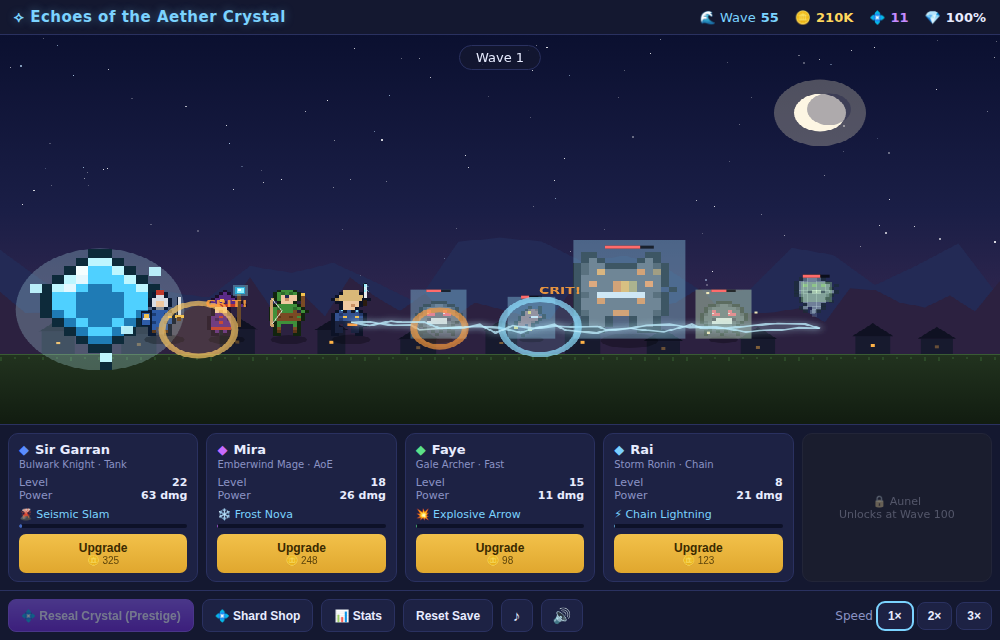
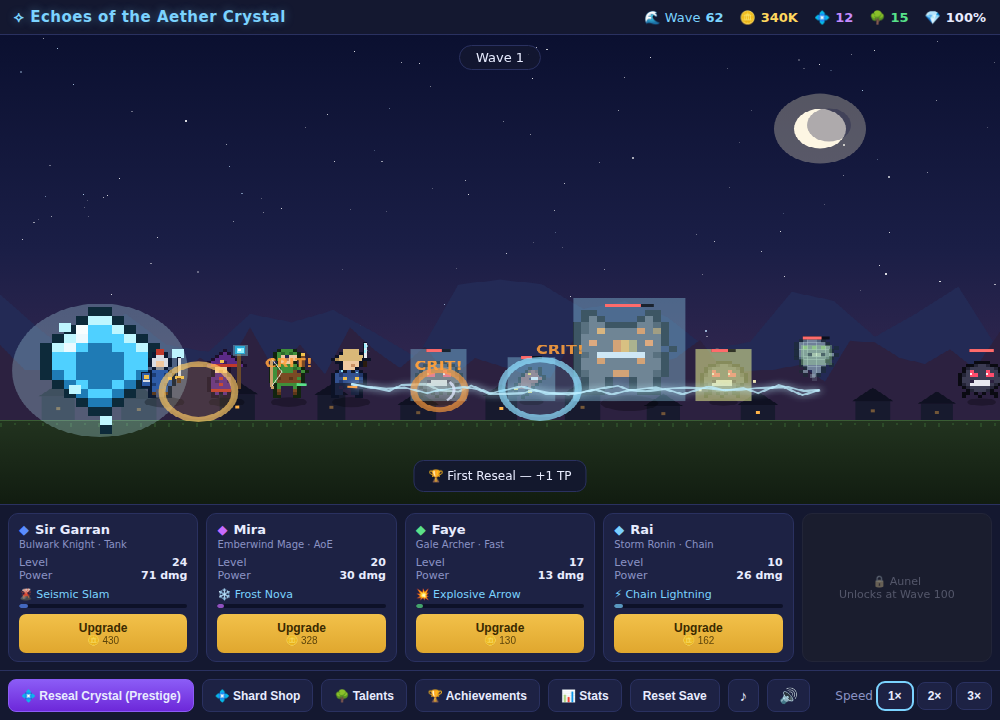
Add achievements (with rewards) and a talent tree
Achievements: 12 one-time milestones (wave/kills/gold/golden/heroes/prestige)
that each award Talent Points and spendable Aether Shards, tracked in save and
checked on wave clear, prestige, golden kills, hero recruit, and boot.

Talent Tree: 10 nodes across Offense / Defense / Economy / Skills branches,
bought with Talent Points (+2 per reseal, more from achievements):
- Might +dmg, Precision +crit dmg, Haste +atk speed
- Bulwark +crystal defense, Regeneration crystal regen
- Greed +gold, Fortune +golden-enemy chance
- Focus -skill cooldown, Empower +skill dmg, Grace +party-buff duration

Each talent is wired into combat (damage/crit/attack-speed/ward/regen/gold/
golden-chance/skill-cooldown/skill-dmg/buff-duration). New meta fields
(achievements, talents, talentPoints, prestiges, goldenKills) persist through
prestige and default cleanly for old saves. Adds Talents/Achievements panels,
a TP counter in the HUD, and matching tests (verify5); full suite passes.

Claude-Session: https://claude.ai/code/session_0137Kmgx8usseqRPpPc7daxH

diff --git a/game.js b/game.js
@@ -62,10 +62,61 @@ const SHARD_UPGRADES = [
     max:20, effect:l=>1, fmt:l=>`${(3+3*l)}% crit` },
 ];
 
-const CRIT_MULT = 2.5;                  // critical hit damage multiplier
+const CRIT_MULT = 2.5;                  // base critical hit damage multiplier
 function critChance(){ return Math.min(0.75, 0.03 + 0.03 * S.shardUpg.crit); }
+function critMultiplier(){ return CRIT_MULT + 0.1 * talent('precision'); }
 function critRoll(dmg){
-  return Math.random() < critChance() ? { dmg: dmg * CRIT_MULT, crit:true } : { dmg, crit:false };
+  return Math.random() < critChance() ? { dmg: dmg * critMultiplier(), crit:true } : { dmg, crit:false };
+}
+
+// --- Talent tree: spent with Talent Points (earned from prestige + achievements)
+const TALENTS = [
+  { id:'might',     branch:'⚔ Offense', name:'Might',        desc:'+5% all damage',          max:10, cost:2, fmt:l=>`+${5*l}% dmg` },
+  { id:'precision', branch:'⚔ Offense', name:'Precision',    desc:'+0.1× critical damage',   max:5,  cost:2, fmt:l=>`×${(CRIT_MULT+0.1*l).toFixed(1)} crit` },
+  { id:'haste',     branch:'⚔ Offense', name:'Haste',        desc:'+5% attack speed',        max:8,  cost:2, fmt:l=>`+${5*l}% spd` },
+  { id:'bulwark',   branch:'🛡 Defense', name:'Bulwark',      desc:'+10% crystal defense',    max:8,  cost:1, fmt:l=>`+${10*l}% def` },
+  { id:'regen',     branch:'🛡 Defense', name:'Regeneration', desc:'+0.5%/s crystal regen',   max:6,  cost:1, fmt:l=>`+${(0.5*l).toFixed(1)}%/s` },
+  { id:'greed',     branch:'💰 Economy', name:'Greed',        desc:'+8% gold from kills',     max:8,  cost:1, fmt:l=>`+${8*l}% gold` },
+  { id:'fortune',   branch:'💰 Economy', name:'Fortune',      desc:'+1% golden enemy chance', max:5,  cost:2, fmt:l=>`+${l}% golden` },
+  { id:'focus',     branch:'✨ Skills',  name:'Focus',        desc:'-4% skill cooldown',      max:8,  cost:2, fmt:l=>`-${4*l}% CD` },
+  { id:'empower',   branch:'✨ Skills',  name:'Empower',      desc:'+10% skill damage',       max:8,  cost:2, fmt:l=>`+${10*l}% skill` },
+  { id:'grace',     branch:'✨ Skills',  name:'Grace',        desc:'+1s party buff',          max:5,  cost:1, fmt:l=>`+${l}s buff` },
+];
+const talent = id => (S.talents[id] || 0);
+
+// talent-derived modifiers
+function effInterval(def){ return Math.max(0.05, def.atkInterval * (1 - 0.05 * talent('haste'))); }
+function effSkillCd(def){ return def.skill.cd * (1 - 0.04 * talent('focus')); }
+function wardMul(){ return shardMul('ward') * (1 + 0.10 * talent('bulwark')); }
+function goldMulAll(){ return shardMul('gold') * (1 + 0.08 * talent('greed')); }
+function goldenChance(){ return 0.03 + 0.01 * talent('fortune'); }
+
+// --- Achievements: one-time unlocks that pay Talent Points + spendable Shards
+const ACHIEVEMENTS = [
+  { id:'w25',  name:'Rising Tide',      desc:'Reach Wave 25',            tp:1, shards:1, check:()=>S.bestWave>=25 },
+  { id:'w50',  name:'Half a Hundred',   desc:'Reach Wave 50',            tp:1, shards:2, check:()=>S.bestWave>=50 },
+  { id:'w100', name:'Centurion',        desc:'Reach Wave 100',           tp:2, shards:3, check:()=>S.bestWave>=100 },
+  { id:'w200', name:'Unbroken',         desc:'Reach Wave 200',           tp:3, shards:5, check:()=>S.bestWave>=200 },
+  { id:'k1k',  name:'Monster Hunter',   desc:'Defeat 1,000 enemies',     tp:1, shards:1, check:()=>S.totalKills>=1000 },
+  { id:'k10k', name:'Legion Breaker',   desc:'Defeat 10,000 enemies',    tp:2, shards:3, check:()=>S.totalKills>=10000 },
+  { id:'g1m',  name:'Treasurer',        desc:'Earn 1M total gold',       tp:1, shards:1, check:()=>S.totalGoldEarned>=1e6 },
+  { id:'g1b',  name:'Tycoon',           desc:'Earn 1B total gold',       tp:2, shards:3, check:()=>S.totalGoldEarned>=1e9 },
+  { id:'gold', name:'Lucky Strike',     desc:'Slay a golden enemy',      tp:1, shards:1, check:()=>S.goldenKills>=1 },
+  { id:'team', name:'Fellowship',       desc:'Recruit all 5 heroes',     tp:2, shards:2, check:()=>HERO_DEFS.every(d=>S.heroLevels[d.id]>0) },
+  { id:'p1',   name:'First Reseal',     desc:'Prestige once',            tp:1, shards:0, check:()=>S.prestiges>=1 },
+  { id:'p10',  name:'Eternal Guardian', desc:'Prestige 10 times',        tp:3, shards:5, check:()=>S.prestiges>=10 },
+];
+function checkAchievements(){
+  for (const a of ACHIEVEMENTS){
+    if (!S.achievements[a.id] && a.check()){
+      S.achievements[a.id] = true;
+      S.talentPoints += a.tp;
+      S.shards += a.shards;
+      const reward = [a.tp?`+${a.tp} TP`:'', a.shards?`+${a.shards}💠`:''].filter(Boolean).join(', ');
+      toast('🏆 ' + a.name + (reward ? ' — ' + reward : ''));
+      GA('prestige');
+    }
+  }
 }
 
 // ------------------------------------------------------------------ formulas
@@ -114,6 +165,11 @@ function freshState(){
     recentGoldRate: [],     // gold/sec samples of recent waves (for offline calc)
     bestWave: 1,            // lifetime best wave reached
     totalKills: 0,          // lifetime enemies defeated
+    goldenKills: 0,         // golden enemies slain (lifetime)
+    prestiges: 0,           // number of reseals performed
+    achievements: {},       // id -> true when unlocked
+    talents: {},            // talent node id -> level
+    talentPoints: 0,        // spendable talent points
   };
 }
 
@@ -146,8 +202,8 @@ function globalDmgMul(){
   if (aunelLv > 0) m *= 1 + 0.03 * aunelLv;          // Aunel passive damage aura
   return m;
 }
-function combatMul(){ return globalDmgMul() * (partyBuffT > 0 ? PARTY_BUFF_MUL : 1); }
-function crystalMaxHp(){ return 100 * shardMul('ward'); }
+function combatMul(){ return globalDmgMul() * (partyBuffT > 0 ? PARTY_BUFF_MUL : 1) * (1 + 0.05 * talent('might')); }
+function crystalMaxHp(){ return 100 * wardMul(); }
 function gameSpeed(){ return S.speed * shardMul('speed'); }
 
 // ------------------------------------------------------------------ combat sim
@@ -194,7 +250,7 @@ function spawnEnemy(w){
   const type = pickType(w);
   const t = ENEMY_TYPES[type];
   const hp = enemyHP(w) * t.hp;
-  const golden = w >= 8 && Math.random() < 0.03;   // rare high-gold enemy
+  const golden = w >= 8 && Math.random() < goldenChance();   // rare high-gold enemy
   enemies.push({
     x: view.laneRight + Math.random()*40, y: view.ground,
     hp, maxHp: hp, type, speed: t.spd, frame:0, boss:false,
@@ -220,11 +276,15 @@ function grantGold(amount){
 function damageEnemy(e, dmg){
   e.hp -= dmg;
   if (e.hp <= 0){
-    const g = goldPerKill(S.wave) * e.goldMul * shardMul('gold');
+    const g = goldPerKill(S.wave) * e.goldMul * goldMulAll();
     grantGold(g);
     waveKills++;
     S.totalKills++;
-    if (e.golden){ addFloater(e.x, e.y - 34*(view.h/460), '💰 +' + fmt(g), '#ffe14d'); GA('prestige'); }
+    if (e.golden){
+      S.goldenKills++;
+      addFloater(e.x, e.y - 34*(view.h/460), '💰 +' + fmt(g), '#ffe14d'); GA('prestige');
+      checkAchievements();
+    }
     else addFloater(e.x, e.y - 30*(view.h/460), '+' + fmt(g), '#ffd75e');
     return true;
   }
@@ -241,7 +301,7 @@ function removeEnemy(e){ const i = enemies.indexOf(e); if (i >= 0) enemies.splic
 // ------------------------------------------------------------------ skills
 function castSkill(def, slot, lvl){
   const s = def.skill;
-  const roll = critRoll(skillBase(def, lvl) * combatMul() * s.mult);
+  const roll = critRoll(skillBase(def, lvl) * combatMul() * s.mult * (1 + 0.10 * talent('empower')));
   const dmg = roll.dmg;
   const hx = slot.x, hy = slot.y - 22;
   if (roll.crit && s.kind !== 'blessing') addFloater(hx, hy - 20, 'CRIT!', '#ffa03c');
@@ -282,7 +342,7 @@ function castSkill(def, slot, lvl){
   }
   else if (s.kind === 'blessing'){
     S.crystalHp = Math.min(1, S.crystalHp + 0.25);
-    partyBuffT = 5;
+    partyBuffT = 5 + talent('grace');
     const holy = skillBase(def, lvl) * combatMul() * 2.5;
     addFx({ kind:'nova', x: view.crystalX, y: slot.y - 18, r0:8, r:220, dur:0.7, color:s.fx });
     addFx({ kind:'heal', x: view.crystalX, y: view.ground - 40, dur:0.9, color:s.fx });
@@ -300,6 +360,8 @@ function simulate(dt){
   waveTime += dt;
   sfxGap -= dt;
   if (partyBuffT > 0) partyBuffT -= dt;
+  if (talent('regen') > 0 && S.crystalHp > 0)
+    S.crystalHp = Math.min(1, S.crystalHp + 0.005 * talent('regen') * dt);
 
   // spawn
   if (spawnedThisWave < totalToSpawn){
@@ -325,7 +387,7 @@ function simulate(dt){
       e.atkTimer += dt;
       if (e.atkTimer >= 1){
         e.atkTimer -= 1;
-        const dmgFrac = (e.boss ? 0.20 : 0.05) / shardMul('ward');
+        const dmgFrac = (e.boss ? 0.20 : 0.05) / wardMul();
         S.crystalHp = Math.max(0, S.crystalHp - dmgFrac);
         addFloater(view.crystalX, view.ground - 60*px, '-' + Math.round(dmgFrac*100) + '%', '#ff6b6b');
       }
@@ -338,7 +400,7 @@ function simulate(dt){
     const def = slot.def, lvl = S.heroLevels[def.id];
 
     // --- basic attack ---
-    const interval = def.atkInterval;
+    const interval = effInterval(def);
     heroTimers[def.id] = (heroTimers[def.id] || 0) + dt;
     while (heroTimers[def.id] >= interval){
       heroTimers[def.id] -= interval;
@@ -346,7 +408,7 @@ function simulate(dt){
     }
 
     // --- skill (auto-cast on cooldown) ---
-    const cd = def.skill.cd;
+    const cd = effSkillCd(def);
     skillTimers[def.id] = (skillTimers[def.id] || 0) + dt;
     if (skillTimers[def.id] >= cd){
       const wantsHeal = def.skill.kind === 'blessing' && S.crystalHp < 0.98;
@@ -379,6 +441,7 @@ function simulate(dt){
     S.wave++;
     if (S.wave > S.bestWave) S.bestWave = S.wave;
     checkUnlocks(S.wave);
+    checkAchievements();
     startWave(S.wave);
     showWaveBanner(S.wave);
     GA(isBossWave(S.wave) ? 'boss' : 'wave');
@@ -558,7 +621,7 @@ function draw(now){
   for (const slot of heroSlots()){
     if (!slot.active) continue;
     // skill-ready glow ring under the hero (also the tap-to-cast target)
-    if ((skillTimers[slot.def.id] || 0) >= slot.def.skill.cd){
+    if ((skillTimers[slot.def.id] || 0) >= effSkillCd(slot.def)){
       ctx.save();
       ctx.globalAlpha = 0.35 + 0.2*Math.sin(now/180);
       ctx.strokeStyle = slot.def.color; ctx.lineWidth = 2;
@@ -625,6 +688,7 @@ function updateHud(){
   el('s-wave').textContent = S.wave;
   el('s-gold').textContent = fmt(S.gold);
   el('s-shard').textContent = fmt(S.shards);
+  if (el('s-tp')) el('s-tp').textContent = fmt(S.talentPoints);
   el('s-crystal').textContent = Math.round(S.crystalHp*100) + '%';
   el('btnPrestige').disabled = prestigeShards(S.totalGoldEarned) <= S.shardsEarned;
   for (const def of HERO_DEFS){
@@ -638,7 +702,7 @@ function updateHud(){
     // skill cooldown bar
     const bar = el('cd-'+def.id);
     if (bar && S.heroLevels[def.id] > 0){
-      const frac = Math.min(1, (skillTimers[def.id] || 0) / def.skill.cd);
+      const frac = Math.min(1, (skillTimers[def.id] || 0) / effSkillCd(def));
       bar.style.width = (frac*100) + '%';
       bar.style.opacity = frac >= 1 ? '1' : '0.7';
     }
@@ -692,6 +756,7 @@ function buyHero(def){
   }
   const btn = el('buy-'+def.id);
   btn.innerHTML = `Upgrade <small>🪙 ${fmt(heroCost(def, S.heroLevels[def.id]))}</small>`;
+  checkAchievements();
   updateHud();
 }
 
@@ -731,18 +796,19 @@ function doPrestige(){
     const keep = {
       shards: S.shards + gain, shardsEarned: S.shardsEarned + gain,
       shardUpg: S.shardUpg, totalGoldEarned: S.totalGoldEarned,
-      bestWave: S.bestWave, totalKills: S.totalKills,
+      bestWave: S.bestWave, totalKills: S.totalKills, goldenKills: S.goldenKills,
+      prestiges: S.prestiges + 1, achievements: S.achievements,
+      talents: S.talents, talentPoints: S.talentPoints + 2,   // +2 TP per reseal
     };
     S = freshState();
-    S.shards = keep.shards; S.shardsEarned = keep.shardsEarned;
-    S.shardUpg = keep.shardUpg; S.totalGoldEarned = keep.totalGoldEarned;
-    S.bestWave = keep.bestWave; S.totalKills = keep.totalKills;
+    Object.assign(S, keep);
     enemies.length = 0; fx.length = 0; partyBuffT = 0;
     for (const k in skillTimers) skillTimers[k] = 0;
     startWave(1);
+    checkAchievements();
     buildHeroPanel(); updateHud(); save();
     closeModal(); GA('prestige');
-    toast('💠 The Crystal is resealed. +' + gain + ' shards.');
+    toast('💠 The Crystal is resealed. +' + gain + ' shards, +2 TP.');
   };
   el('cancPrestige').onclick = closeModal;
 }
@@ -828,7 +894,7 @@ canvas.addEventListener('pointerdown', e => {
   }
   if (best && bd < 48){
     const def = best.def;
-    const ready = (skillTimers[def.id] || 0) >= def.skill.cd;
+    const ready = (skillTimers[def.id] || 0) >= effSkillCd(def);
     if (ready && (enemies.length > 0 || def.skill.kind === 'blessing')){
       skillTimers[def.id] = 0;
       castSkill(def, best, S.heroLevels[def.id]);
@@ -853,6 +919,62 @@ function openStats(){
 }
 if (el('btnStats')) el('btnStats').onclick = openStats;
 
+// talent tree panel
+function openTalents(){
+  const branches = [...new Set(TALENTS.map(t => t.branch))];
+  let body = branches.map(b => {
+    const rows = TALENTS.filter(t => t.branch === b).map(t => {
+      const lvl = talent(t.id), maxed = lvl >= t.max;
+      const afford = S.talentPoints >= t.cost && !maxed;
+      return `<div class="shard-item">
+        <div class="info"><b>${t.name}</b> — ${t.desc}
+          <div class="lv">Lv ${lvl}/${t.max} · now ${t.fmt(lvl)}</div></div>
+        <button class="btn" data-tal="${t.id}" ${afford?'':'disabled'}>${maxed?'MAX':'🌳 '+t.cost}</button>
+      </div>`;
+    }).join('');
+    return `<div class="branch-title">${b}</div>${rows}`;
+  }).join('');
+  openModal(`
+    <h2>🌳 Talent Tree</h2>
+    <p>Spend Talent Points on permanent bonuses. Earn <b>+2 TP</b> per reseal and
+       more from achievements. You have <b style="color:var(--hp)">${S.talentPoints} TP</b>.</p>
+    <div class="shard-shop">${body}</div>
+    <button class="btn" id="closeTal" style="width:100%">Close</button>`);
+  el('closeTal').onclick = closeModal;
+  el('modalBox').querySelectorAll('[data-tal]').forEach(btn => {
+    btn.onclick = () => {
+      const t = TALENTS.find(x => x.id === btn.dataset.tal);
+      const lvl = talent(t.id);
+      if (S.talentPoints < t.cost || lvl >= t.max) return;
+      S.talentPoints -= t.cost;
+      S.talents[t.id] = lvl + 1;
+      GA('upgrade'); save(); openTalents(); updateHud();
+    };
+  });
+}
+if (el('btnTalents')) el('btnTalents').onclick = openTalents;
+
+// achievements panel
+function openAchievements(){
+  const done = ACHIEVEMENTS.filter(a => S.achievements[a.id]).length;
+  const rows = ACHIEVEMENTS.map(a => {
+    const got = !!S.achievements[a.id];
+    const reward = [a.tp?`+${a.tp} TP`:'', a.shards?`+${a.shards}💠`:''].filter(Boolean).join(' · ') || '—';
+    return `<div class="shard-item" style="${got?'':'opacity:.6'}">
+      <div class="info"><b>${got?'🏆':'🔒'} ${a.name}</b> — ${a.desc}
+        <div class="lv">Reward: ${reward}</div></div>
+      <div class="lv">${got?'DONE':''}</div>
+    </div>`;
+  }).join('');
+  openModal(`
+    <h2>🏆 Achievements <span style="font-size:13px;color:var(--muted)">(${done}/${ACHIEVEMENTS.length})</span></h2>
+    <p>One-time milestones that reward Talent Points and Aether Shards.</p>
+    <div class="shard-shop">${rows}</div>
+    <button class="btn" id="closeAch" style="width:100%">Close</button>`);
+  el('closeAch').onclick = closeModal;
+}
+if (el('btnAch')) el('btnAch').onclick = openAchievements;
+
 // audio buttons + unlock-on-first-gesture
 const btnMute = el('btnMute'), btnMusic = el('btnMusic');
 if (btnMute) btnMute.onclick = () => { const m = window.GameAudio && GameAudio.toggleMute(); btnMute.textContent = m ? '🔇' : '🔊'; };
@@ -867,6 +989,7 @@ function boot(){
   S = load() || freshState();
   resize();
   applyOffline();
+  checkAchievements();
   startWave(S.wave);
   buildHeroPanel();
   showWaveBanner(S.wave);

diff --git a/index.html b/index.html
@@ -79,6 +79,7 @@
   .shard-item .info{flex:1;font-size:12px}
   .shard-item .info b{color:var(--shard)}
   .shard-item .lv{font-size:11px;color:var(--muted)}
+  .branch-title{font-size:12px;font-weight:700;color:var(--accent);margin:10px 2px 2px}
   .toast{position:absolute;bottom:12px;left:50%;transform:translateX(-50%);
     background:rgba(20,24,48,.92);border:1px solid var(--line);border-radius:10px;
     padding:8px 14px;font-size:12px;pointer-events:none;opacity:0;transition:opacity .3s;z-index:20}
@@ -95,6 +96,7 @@
       <div class="stat g-wave">🌊 Wave <b id="s-wave">1</b></div>
       <div class="stat g-gold">🪙 <b id="s-gold">0</b></div>
       <div class="stat g-shard">💠 <b id="s-shard">0</b></div>
+      <div class="stat" style="color:var(--hp)">🌳 <b id="s-tp">0</b></div>
       <div class="stat"><span class="g-hp">💎</span> <b id="s-crystal">100%</b></div>
     </div>
   </header>
@@ -110,6 +112,8 @@
   <div class="controls">
     <button class="btn prestige" id="btnPrestige">💠 Reseal Crystal (Prestige)</button>
     <button class="btn" id="btnShop">💠 Shard Shop</button>
+    <button class="btn" id="btnTalents">🌳 Talents</button>
+    <button class="btn" id="btnAch">🏆 Achievements</button>
     <button class="btn" id="btnStats">📊 Stats</button>
     <button class="btn" id="btnReset">Reset Save</button>
     <button class="btn icon" id="btnMusic" title="Music on/off">♪</button>

diff --git a/README.md b/README.md
@@ -64,6 +64,26 @@ reflows on narrow / portrait screens.
 - **Boss health bar** across the top during boss waves.
 - **📊 Stats panel** — best wave, enemies defeated, lifetime gold, shards, crit chance.
 
+## 🏆 Achievements & 🌳 Talent Tree
+
+**Achievements** are one-time milestones (reach Wave 25/50/100/200, defeat 1k/10k
+enemies, earn 1M/1B gold, slay a golden enemy, recruit all heroes, prestige
+1×/10×). Each pays out **Talent Points (TP)** and **Aether Shards**.
+
+**Talent Points** (also +2 per reseal) are spent in a branching **Talent Tree**:
+
+| Branch | Talents |
+|--------|---------|
+| ⚔ Offense | Might (+dmg) · Precision (+crit dmg) · Haste (+atk speed) |
+| 🛡 Defense | Bulwark (+crystal defense) · Regeneration (crystal regen) |
+| 💰 Economy | Greed (+gold) · Fortune (+golden-enemy chance) |
+| ✨ Skills | Focus (−skill cooldown) · Empower (+skill dmg) · Grace (+party-buff duration) |
+
+Achievements, talents, and Talent Points all persist through prestige.
+
+![talent tree](screenshot-talents.png)
+![achievements](screenshot-achievements.png)
+
 ## Design & balance
 
 Core formulas (wave index `w`):
